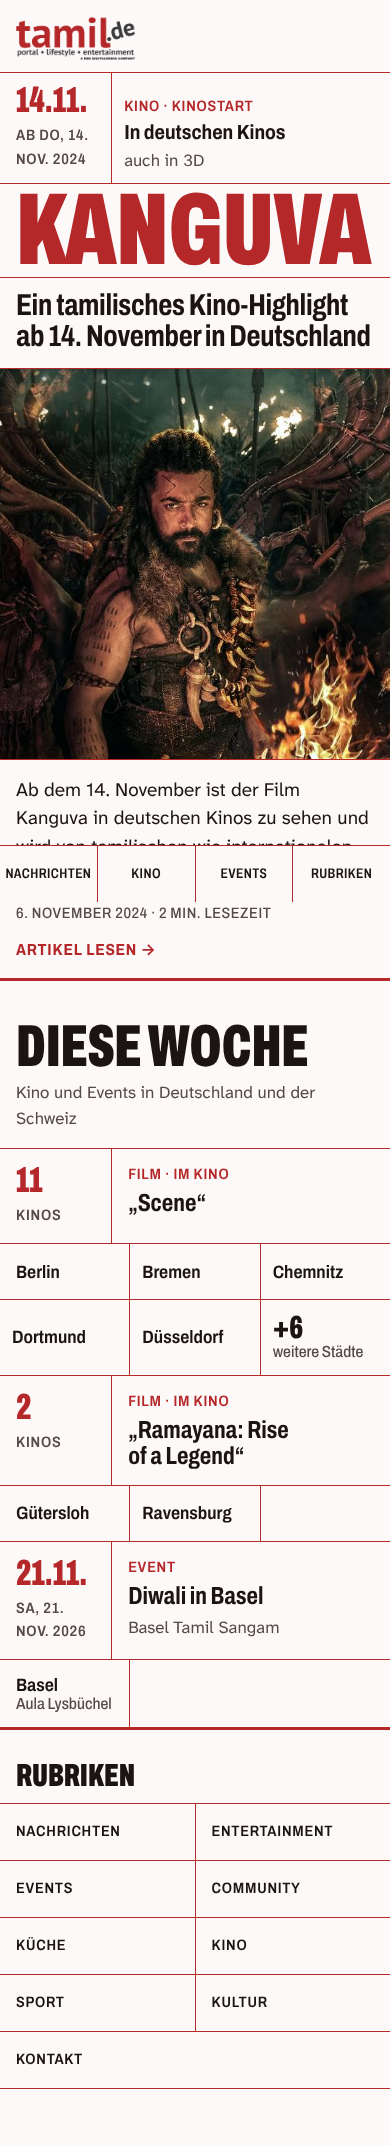
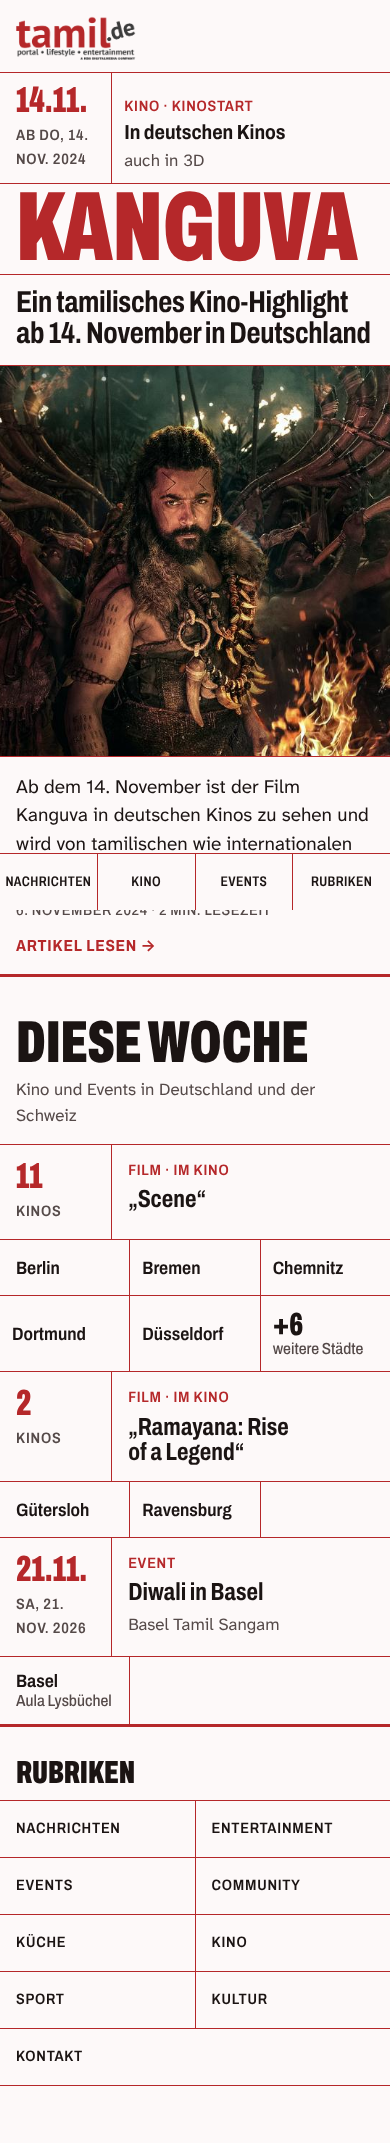
feat(design): Richtungsskizze raster, Runde 2 nach Kritik
Cover beginnt mit einer Fahrplanzeile wie die Einträge in „Diese Woche“, Bilder
nie über Originalgröße, Cover-Wort nach Zeichenzahl, aktuelle Rubrik sichtbar,
Ortsraster mit festen Feldbreiten.

Claude-Session: https://claude.ai/code/session_01VBg2WFSs9tPNRidQXUcJan

diff --git a/design/richtungen/raster/raster.css b/design/richtungen/raster/raster.css
@@ -214,7 +214,7 @@ a { color: inherit; }
 }
 
 /* Das Stichwort: Steckbuchstaben, füllt die Feldbreite.
-   Archivo wdth 62 / 850 setzt Versalien im Mittel mit rund 0,5 em; das Theme schreibt die Zeichenzahl als --zeichen
+   Archivo wdth 62 / 850 setzt Versalien im Mittel mit rund 0,5 em (KANGUVA 3,47 em, RAMAYANA 4,10 em, DOSA 2,01 em); das Theme schreibt die Zeichenzahl als --zeichen
    in den Stil (Titel vor dem Gedankenstrich, bis 12 Zeichen). Obergrenze 22rem, damit „DOSA“ nicht den Bildschirm füllt. */
 .cover__wort {
   grid-area: wort;
@@ -225,14 +225,14 @@ a { color: inherit; }
   font-weight: 850;
   text-transform: uppercase;
   white-space: nowrap;
-  font-size: min(calc(100vw / (var(--zeichen, 7) * 0.53)), 22rem);
+  font-size: min(calc(100vw / (var(--zeichen, 7) * 0.55)), 22rem);
   line-height: 0.8;
   letter-spacing: -0.005em;
   padding-bottom: 0.06em;
   overflow: hidden;
 }
 @supports (font-size: 1cqi) {
-  .cover__wort { font-size: min(calc((100cqi - 2 * var(--fuge)) / (var(--zeichen, 7) * 0.5)), 22rem); }
+  .cover__wort { font-size: min(calc((100cqi - 2 * var(--fuge)) / (var(--zeichen, 7) * 0.52)), 22rem); }
 }
 
 .cover__titel {

diff --git a/design/richtungen/raster/begruendung.md b/design/richtungen/raster/begruendung.md
@@ -121,3 +121,32 @@ Darunter setzt sich dasselbe Raster als **Ortsraster** fort: Jeder Kino- oder Ev
   am Seitenende (ohne JavaScript).
 - Teilen über WhatsApp im Artikel als einfacher Link (`https://wa.me/?text=…`), kein Skript.
 - Kein JavaScript auf beiden Seiten.
+
+## Runde 2 (nach Kritik `design/kritik/raster-r1.md`)
+
+**P1, Idee im ersten Bildschirm:** Das Cover beginnt jetzt mit einer **Fahrplanzeile**, gebaut wie die Einträge in
+„Diese Woche“: links groß und rot die Zeit („14.11.“, darunter „ab Do, 14. Nov. 2024“), daneben was und wo
+(„Kino · Kinostart“, „Mit Suriya und Bobby Deol“, „In deutschen Kinos, auch in 3D“). Erst danach kommen Wort, Satz und Bild.
+Ab 820 px steht diese Zeile in denselben Spalten (3 | 4 | 5 von 12) wie der Fahrplan; ab 1024 px sitzt das Bild unter
+der Ortsspalte, sodass alle senkrechten Linien des Covers bis in „Diese Woche“ durchlaufen. Cover und Fahrplan sind ein
+Aushang. Am Handy steht die Zeile über dem Wort (Zeit | Ort), die Überschrift bleibt ohne Scrollen ganz lesbar.
+Alle Angaben stammen aus Beitrag 9711 (Starttermin, Hauptdarsteller, 3D); der Wochentag ist aus dem Datum berechnet.
+Der alte Metastreifen ist aus dem Raster genommen und steht als leise Zeile unter dem Vorspann.
+
+**P2, übernommen:**
+- *Fahrplan ohne Zeit / doppeltes „IM KINO“:* Kino-Einträge zeigen links die belegte Zahl der Kinos („11“, „2“) groß
+  und rot; „im Kino“ steht nur noch einmal im Etikett.
+- *11 gegen 2:* Ortsraster mit fester Feldbreite (`auto-fill`, kein Wachsen); was nicht belegt ist, bleibt hell.
+  „Scene“ füllt Zeilen, „Ramayana“ lässt Felder frei. Die übrigen 6 Städte als ein Feld „+6 weitere Städte“.
+- *Kein Hochskalieren:* Bilder bekommen ihre Originalmaße als `--bild-b` / `--bild-h` (im Theme aus den Bilddaten) und
+  dürfen höchstens so groß werden; `object-fit: cover` beschneidet nur innerhalb dieser Grenzen. Am Handy quadratischer
+  Ausschnitt (390 × 390 aus 1024 × 538, also verkleinert), damit das Foto nicht der kleinste Teil des Covers ist.
+- *Cover-Wort:* Größe aus der Zeichenzahl `--zeichen` (setzt das Theme) mit 0,52 em je Zeichen, Obergrenze 22rem. Gemessen: KANGUVA füllt 95 %, RAMAYANA 98 % der Breite, DOSA bleibt bei der Obergrenze. Wörter mit vielen breiten Buchstaben (M, W) können knapp abgeschnitten werden; genauer wird es mit Breitenwerten je Buchstabe im Theme.
+- *Aktuelle Rubrik:* `aria-current` rot mit 3 px Unterkante in Kopf und Daumenleiste; „Rubriken“ in Tinte.
+- *Kasten um jedes Metadatum:* Felder gibt es nur noch für Zeit, Ort, Cover-Teile und Spielorte. Artikel-Metadaten und
+  Teilen sind freie Zeilen; der Artikel ist ein einziges ruhiges Feld, Text beginnt an der Titellinie des Fahrplans.
+
+**P3, nebenbei:** Daumenleiste in `wdth 75`; Diwali ohne doppeltes Datum („Sa, 21. Nov. 2026“, darunter nur der
+Verein); Rubrikenraster am Desktop ausgeblendet (Kopf hat die Rubriken).
+
+**Offen:** Ein zweiter Cover-Fall (kurzes oder langes Wort) ist im Code angelegt, aber nicht als Seite gezeigt.
